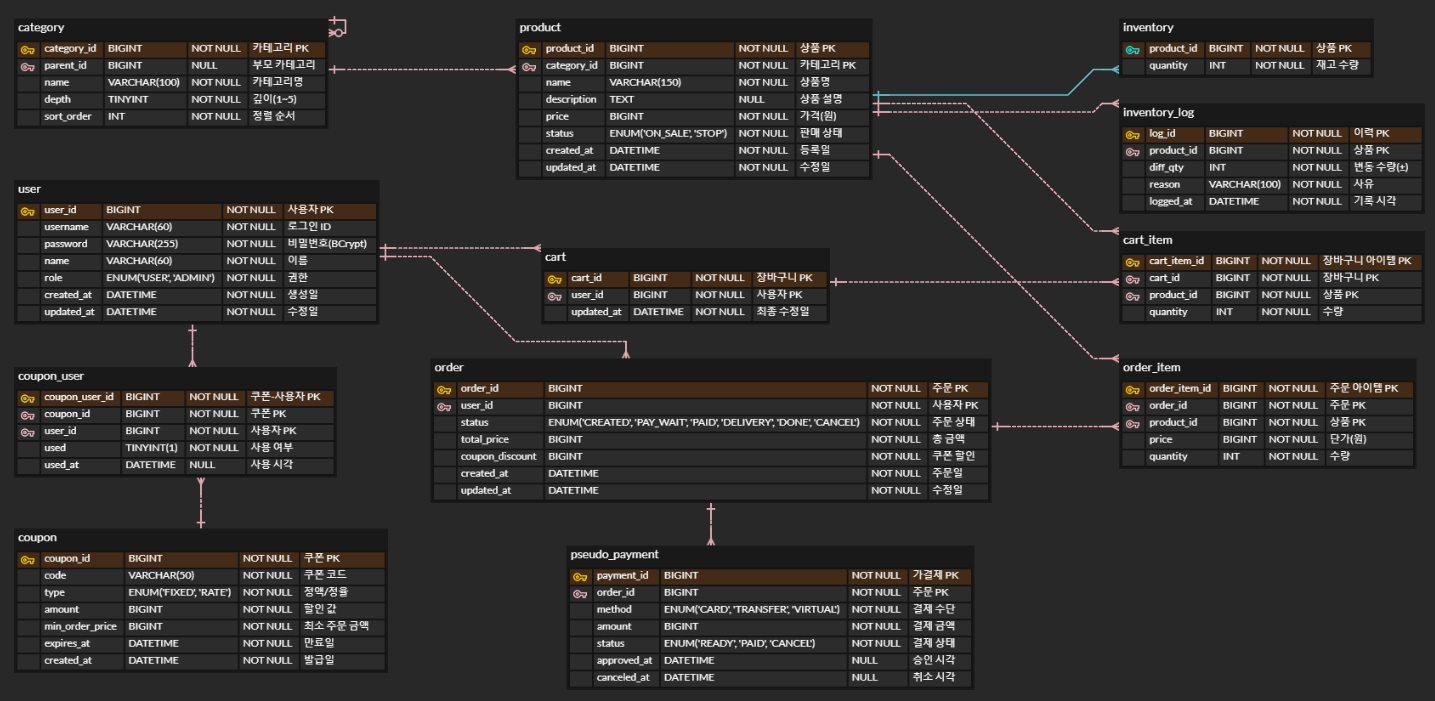
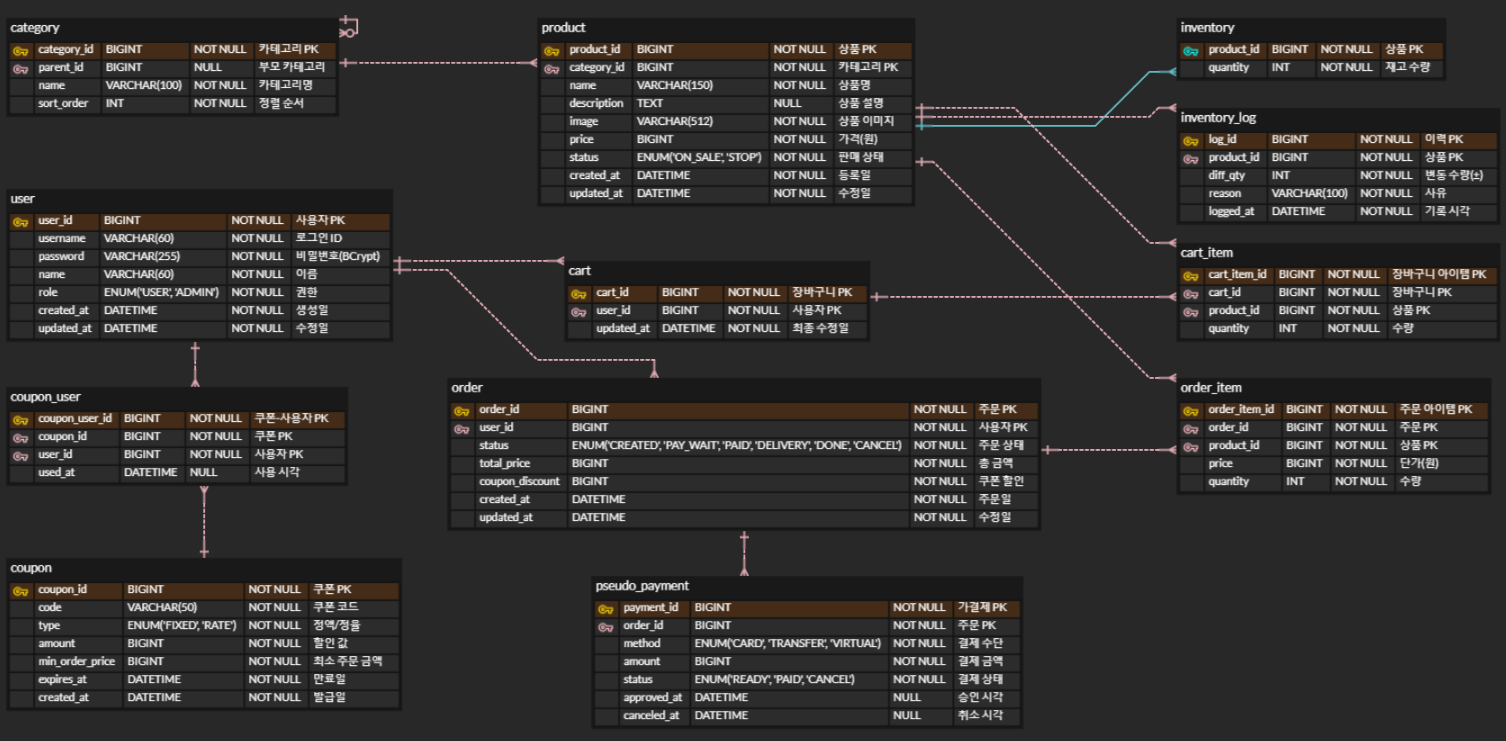
docs : README 상품, 캐시 부분 설명 추가, ERD 일부 컬럼 변경

diff --git a/README.md b/README.md
@@ -10,18 +10,19 @@ KHMall은 **상품 관리, 주문 처리, 재고·회원 관리를 지원하는 
 
 ## ⚙ 주요 기능
 ### 1. 회원
-- 회원가입 / 로그인
-- 사용자 권한: 일반 회원 vs 관리자
-- (로그인 세션 유지·만료는 토큰 기반으로 처리)
+- 회원가입 / 로그인 (JWT 토큰 기반)
+- 사용자 권한: 일반 회원 · 관리자
 
 ### 2. 카테고리
-- 최대 5단계 상·하위 카테고리 생성 / 수정 / 삭제
+- 최대 5단계 상·하위 카테고리 CRUD
 - 카테고리별 상품 목록 조회
 
 ### 3. 상품
 - 상품 등록·수정·삭제 (관리자)
 - 상품 목록 / 상세 조회 (회원)
 - 재고와 연동되어 판매 상태 자동 반영
+> **상품 등록 시 입력 정보**<br>
+> 상품명(name), 가격(price), 설명(description), 이미지(image), 카테고리(category), 재고(stock)
 
 ### 4. 장바구니
 - 상품 담기, 수량 변경, 삭제
@@ -33,37 +34,25 @@ KHMall은 **상품 관리, 주문 처리, 재고·회원 관리를 지원하는 
 - 주문 내역 조회 및 결제 전 취소 요청
 
 ### 6. 검색
-- 키워드(상품명·카테고리) 기반 검색
-- 인기 검색어 TOP 10 제공 (Redis 캐시)
+- 키워드(상품명·카테고리) 기반 검색 (Elasticsearch 8)
+- 인기 검색어 TOP N 제공 (Redis)
 
 ### 7. 쿠폰·할인
 - 관리자 쿠폰 발급 (정액 / 정율)
-- 주문 시 쿠폰 적용 (주문당 1매, 중복 불가)
+- 주문 시 쿠폰 1매 적용 (중복 불가)
 - 쿠폰 사용·만료 이력 관리
 
 ### 8. 캐시
-- **로컬 캐시 (Caffeine)**
-    - 카테고리 트리 JSON
-        - TTL : 12 시간
-- **분산 캐시 (Redis 7)**
-    - 인기 검색어 Top N
-        - 키 : `search:hot` (ZSET)
-        - TTL : 24 시간
-    - 상품 **상세** 캐시
-        - 키 : `product:{id}`
-        - TTL : 10 분
-        - 가격·재고 변경 시 무효화
-    - 상품 **목록** 캐시
-        - 키 형식 : `products:{catId}:{sort}:{page}`
-          - `catId` = 카테고리 ID
-          - `sort` = `latest` \| `priceAsc` \| `priceDesc`
-          - `page` = 1 – 5
-        - TTL : 5 분
-        - 적용 카테고리 기준
-          - 최근 24 시간 주문 수 상위 5개 카테고리만 캐싱
-          - 집계 방법
-              1. 5 분마다 스케줄러가 SQL로 주문 수 집계 ⇢ `category:hot` 키에 저장
-              2. 목록 요청 시 `catId` 가 `category:hot` 안에 있으면 캐시 저장 / 조회
+#### 로컬 캐시 (Caffeine)
+- **카테고리 트리 JSON** : `category:tree` · TTL 12 h
+
+#### 분산 캐시 (Redis 7)
+| 영역 | 키 예시 | TTL | 비고 |
+|------|--------|-----|------|
+| **인기 검색어 – Per-term ZSET** | `search:{term}` | 25 h | `ZADD score=timestamp member=timestamp[:seq]` → `ZREMRANGEBYSCORE now-24h` <br> `ZCARD` = 최근 24 h 검색 횟수 |
+| **인기 검색어 – 전역 랭킹 ZSET** | `search:hot` | 24 h | `ZADD score=cnt member=term` → `ZREVRANGE ...` 로 TOP N |
+| **상품 상세** | `product:{id}` | 10 m | 가격·재고 변경 시 즉시 무효화 |
+| **상품 목록** | `products:{catId}:{sort}:{page}` | 5 m | 모든 카테고리에 동일 전략 적용 |
 ### 9. 결제 (가결제)
 - 내부 **가결제 테이블**로 승인·취소 관리
 - **PG 연동 시 ERD 수정·컬럼 확장 예정**
@@ -80,17 +69,16 @@ KHMall은 **상품 관리, 주문 처리, 재고·회원 관리를 지원하는 
 ---
 ## 🛠 기술 스택
 
-| 영역 | 사용 기술                                             | 용도                   |
-|------|---------------------------------------------------|----------------------|
-| **Language** | Java 21                                         | 백엔드 핵심 언어            |
-| **Framework** | Spring Boot 3.5.4<br>Spring Data JPA<br>Spring Security | REST API, ORM, 인증·권한 |
-| **Database** | MySQL 8                                           | 영속 데이터 저장            |
-| **Cache** | Caffeine (Spring Cache)<br>Redis 7 | 카테고리 트리 로컬 캐싱, 인기 검색어 캐싱      |
-| **Search** | Elasticsearch 8                                   | 상품 검색·필터링            |
-| **Build** | Gradle 8                                          | 의존성 관리·빌드            |
-| **Testing** | JUnit 5                                           | 단위·통합 테스트            |
-| **Code Utils** | Lombok                                            | 보일러플레이트 제거           |
-| **API Docs** | SpringDoc OpenAPI 3 + Swagger-UI                  | 실시간 API 문서           |
+| 영역 | 사용 기술 | 용도 |
+|------|-----------|------|
+| Language | Java 21 | 백엔드 핵심 언어 |
+| Framework | Spring Boot 3.5.4 / Spring Data JPA / Spring Security | REST API · ORM · 인증 |
+| Database | MySQL 8 | 영속 데이터 저장 |
+| Cache | Caffeine / Redis 7 | 로컬·분산 캐시 |
+| Search | Elasticsearch 8 | 상품 검색 |
+| Build | Gradle 8 | 빌드·의존성 관리 |
+| Testing | JUnit 5 | 단위·통합 테스트 |
+| Docs | SpringDoc OpenAPI 3 + Swagger-UI | 실시간 API 문서 생성 |
 
 ---
 ## ❓ Troubleshooting
